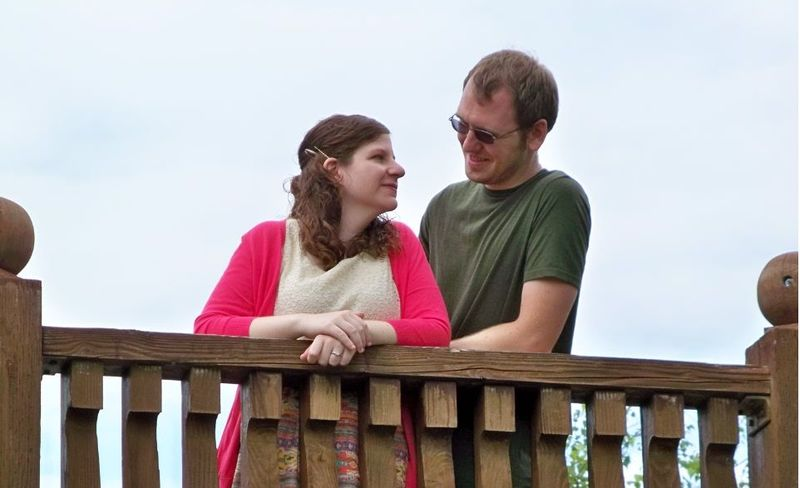
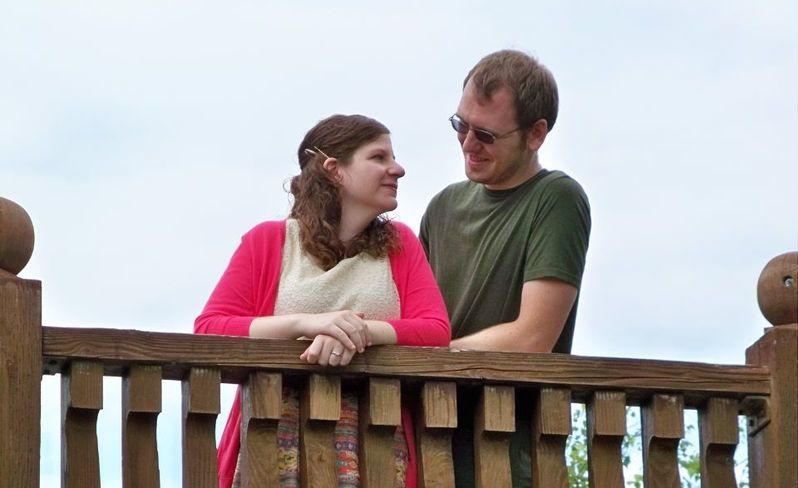
Disable background image in nav. Instead, insert <img> in header.html to hold it. Color scheme change. Padding adjustments.

diff --git a/_includes/header.html b/_includes/header.html
@@ -1,25 +1,27 @@
 <header class="site-header">
 
-  <div class="wrapper">
+	<div class="wrapper">
 
-	<nav class="site-nav">
-	  <a href="#" class="menu-icon">
-		<svg viewBox="0 0 18 15">
-		  <path fill="#424242" d="M18,1.484c0,0.82-0.665,1.484-1.484,1.484H1.484C0.665,2.969,0,2.304,0,1.484l0,0C0,0.665,0.665,0,1.484,0 h15.031C17.335,0,18,0.665,18,1.484L18,1.484z"/>
-		  <path fill="#424242" d="M18,7.516C18,8.335,17.335,9,16.516,9H1.484C0.665,9,0,8.335,0,7.516l0,0c0-0.82,0.665-1.484,1.484-1.484 h15.031C17.335,6.031,18,6.696,18,7.516L18,7.516z"/>
-		  <path fill="#424242" d="M18,13.516C18,14.335,17.335,15,16.516,15H1.484C0.665,15,0,14.335,0,13.516l0,0 c0-0.82,0.665-1.484,1.484-1.484h15.031C17.335,12.031,18,12.696,18,13.516L18,13.516z"/>
-		</svg>
-	  </a>
+		<nav class="site-nav">
+			<a href="#" class="menu-icon">
+				<svg viewBox="0 0 18 15">
+					<path fill="#424242" d="M18,1.484c0,0.82-0.665,1.484-1.484,1.484H1.484C0.665,2.969,0,2.304,0,1.484l0,0C0,0.665,0.665,0,1.484,0 h15.031C17.335,0,18,0.665,18,1.484L18,1.484z"/>
+					<path fill="#424242" d="M18,7.516C18,8.335,17.335,9,16.516,9H1.484C0.665,9,0,8.335,0,7.516l0,0c0-0.82,0.665-1.484,1.484-1.484 h15.031C17.335,6.031,18,6.696,18,7.516L18,7.516z"/>
+					<path fill="#424242" d="M18,13.516C18,14.335,17.335,15,16.516,15H1.484C0.665,15,0,14.335,0,13.516l0,0 c0-0.82,0.665-1.484,1.484-1.484h15.031C17.335,12.031,18,12.696,18,13.516L18,13.516z"/>
+				</svg>
+			</a>
 
-	  <div class="trigger">
-		{% for page in site.data.pages %}
-		  {% if page.title %}
-		  <a class="page-link" href="{{ page.url | prepend: site.baseurl }}">{{ page.title }}</a>
-		  {% endif %}
-		{% endfor %}
-	  </div>
-	</nav>
+			<div class="trigger">
+				{% for page in site.data.pages %}
+				{% if page.title %}
+				<a class="page-link" href="{{ page.url | prepend: site.baseurl }}">{{ page.title }}</a>
+				{% endif %}
+				{% endfor %}
+			</div>
+		</nav>
 
-  </div>
-
+	</div>
+	<!-- <div class="wrapper photo" style="background-image: url({{ '/images/101_1612.JPG' | prepend: site.baseurl }})"> -->
+	<!-- </div> -->
+	<img src="{{ '/images/101_1612.JPG' | prepend: site.baseurl }}" style="display:block;margin:auto"/>
 </header>

diff --git a/_sass/_layout.scss b/_sass/_layout.scss
@@ -7,26 +7,26 @@
     // Positioning context for the mobile navigation icon
     position: relative;
 
-	.wrapper { //TODO: this url should be based on baseurl. Fixable?
-		background-image: url(/images/101_1612.JPG);
-		height: 240px;
-		width: 100%;
-		background-size: cover;
+	// .photo { //TODO: this url should be based on baseurl. Fixable?
+	// 	// background-image: url(/images/101_1612.JPG);
+	// 	height: 400px;
+	// 	width: 100%;
+	// 	background-size: cover;
 
-		border: thin solid black;
+	// 	// border: thin solid black;
 
-		$screen-size-changes: 1000 600;
-		$screen-size-changes-heights: 400 333;
+	// 	$screen-size-changes: 1000 600;
+	// 	$screen-size-changes-heights: 400 333;
 
-		@each $current-height in $screen-size-changes-heights {
-			$i: index($screen-size-changes-heights, $current-height);
-			$current-size-change: nth($screen-size-changes, $i);
+	// 	@each $current-height in $screen-size-changes-heights {
+	// 		$i: index($screen-size-changes-heights, $current-height);
+	// 		$current-size-change: nth($screen-size-changes, $i);
 
-			@media only screen and (min-width : #{$current-size-change}px) {
-				height: #{$current-height}px;
-			}
-		}
-	}
+	// 		@media only screen and (min-width : #{$current-size-change}px) {
+	// 			height: #{$current-height}px;
+	// 		}
+	// 	}
+	// }
 }
 
 .site-title {
@@ -111,9 +111,10 @@
  * Site footer
  */
 .site-footer {
-    border-top: 1px solid $grey-color-light;
-    padding: $spacing-unit 0;
-	background-color: orchid;
+    // border-top: 1px solid black;
+    // padding: $spacing-unit 0;
+    padding-top: 15px;
+	// background-color: $background-color-text;
 }
 
 .footer-heading {
@@ -184,8 +185,9 @@
 .page-content {
 
 	.wrapper {
-		border: thin solid black;
-		background-color: orchid;
+        padding-top: 40px;
+		// border: thin solid black;
+		background-color: $background-color-text;
 	}
 }
 

diff --git a/css/main.scss b/css/main.scss
@@ -13,8 +13,9 @@ $base-line-height: 1.5;
 
 $spacing-unit:     30px;
 
-$text-color:       #111;
-$background-color: darkolivegreen;
+$text-color:       white;
+$background-color: #394734;
+$background-color-text: #E02B62;
 $brand-color:      #2a7ae2;
 
 $grey-color:       #828282;

diff --git a/_includes/footer.html b/_includes/footer.html
@@ -16,9 +16,6 @@
         </ul>
       </div>
 
-      <div class="footer-col  footer-col-3">
-        <p class="text">{{ site.description }}</p>
-      </div>
     </div>
 
   </div>
